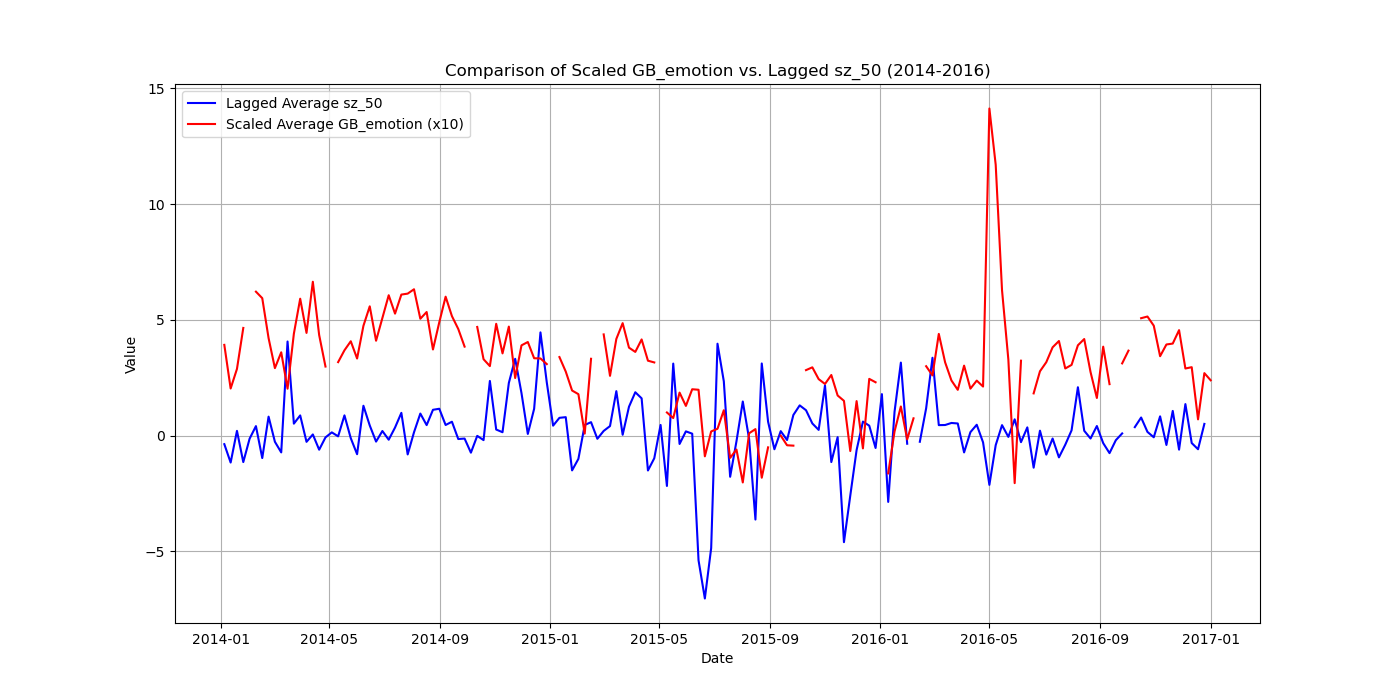
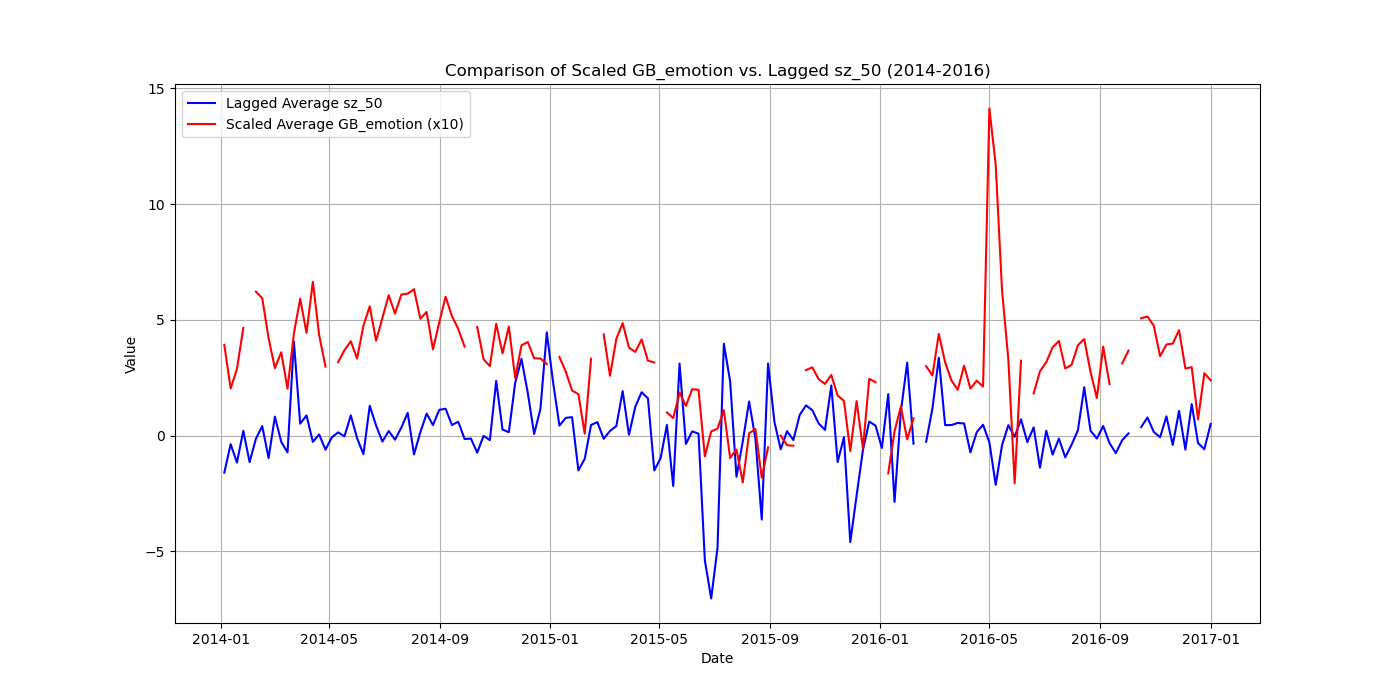
Update Study1 @0506

Changed region(s): [[0.1536, 0.48, 0.86, 0.87]]

diff --git a/Study2可视化.py b/Study2可视化.py
@@ -1,0 +1,77 @@
+import pandas as pd
+import numpy as np
+import matplotlib.pyplot as plt
+from sklearn.model_selection import KFold
+from sklearn.model_selection import train_test_split
+from sklearn.preprocessing import StandardScaler
+from sklearn.impute import KNNImputer
+from sklearn.metrics import mean_squared_error, r2_score, mean_absolute_error
+import tensorflow as tf
+from tensorflow.keras.layers import Input, Dense, LSTM, Dropout, Bidirectional
+import optuna
+
+# Load data
+data_path = 'study1_final_all.csv'
+data = pd.read_csv(data_path)
+data['Date'] = pd.to_datetime(data['Date'])
+data.sort_values('Date', inplace=True)
+
+# Ensure 'Scode' is treated as a string to avoid any numeric interpretation
+data['Scode'] = data['Scode'].astype(str)
+
+# Splitting unique stock codes into training and testing sets
+unique_codes = data['Scode'].unique()
+train_codes, test_codes = train_test_split(unique_codes, test_size=0.4, random_state=42)
+
+# Splitting the dataset based on the train and test codes
+train_data = data[data['Scode'].isin(train_codes)].dropna()
+test_data = data[data['Scode'].isin(test_codes)].dropna()
+
+# Data preprocessing
+imputer = KNNImputer(n_neighbors=5)
+scaler = StandardScaler()
+
+# Feature engineering for train and test sets
+features_train = train_data[['GB_emotion']].copy()
+features_train['GB_emotion'] = imputer.fit_transform(features_train[['GB_emotion']].values.reshape(-1, 1))
+features_scaled_train = scaler.fit_transform(features_train['GB_emotion'].values.reshape(-1, 1))
+features_scaled_train = np.reshape(features_scaled_train, (features_scaled_train.shape[0], 1, 1))
+
+features_test = test_data[['GB_emotion']].copy()
+features_test['GB_emotion'] = imputer.transform(features_test[['GB_emotion']].values.reshape(-1, 1))
+features_scaled_test = scaler.transform(features_test['GB_emotion'].values.reshape(-1, 1))
+features_scaled_test = np.reshape(features_scaled_test, (features_scaled_test.shape[0], 1, 1))
+
+# Target variable handling for train and test sets
+target_train = train_data['Wretnd'].values
+target_test = test_data['Wretnd'].values
+
+# Optuna objective function
+def objective(trial):
+    kf = KFold(n_splits=5, shuffle=True, random_state=42)
+    mse_scores = []
+
+    for train_index, test_index in kf.split(features_scaled_train):
+        X_train, X_test = features_scaled_train[train_index], features_scaled_train[test_index]
+        y_train, y_test = target_train[train_index], target_train[test_index]
+
+        # Model building
+        model = tf.keras.Sequential([
+            Input(shape=(1, 1)),
+            Bidirectional(LSTM(trial.suggest_int('lstm_units', 50, 200), return_sequences=True)),
+            Dropout(trial.suggest_float('dropout_rate', 0.1, 0.5)),
+            tf.keras.layers.SimpleRNN(trial.suggest_int('lstm_units', 50, 200)),
+            Dense(1, activation='relu')
+        ])
+
+        # Compile model, add gradient clipping to prevent exploding gradients
+        lr = trial.suggest_float('learning_rate', 1e-5, 1e-3, log=True)
+        model.compile(optimizer=tf.keras.optimizers.Adam(learning_rate=lr), loss='mse')
+
+        # TensorBoard integration
+        from tensorflow.keras.callbacks import TensorBoard
+        import time
+        unique_mod_name = f"lstm_model_{int(time.time())}"
+        tensorboard = TensorBoard(log_dir=f"logs/{unique_mod_name}")
+
+        model.fit(X_train, y_train, epochs=50, validation_data=(X_test, y_test), callbacks=[tensorboard])

diff --git a/Study2趋势.py b/Study2趋势.py
@@ -13,30 +13,13 @@ data.set_index('Date', inplace=True)
 weekly_data = data.resample('W').mean()
 weekly_data['Analyst_emotion'].fillna(0, inplace=True)
 
-# # 绘制情绪得分和股指回报率的折线图
-# plt.figure(figsize=(14, 8))
-# plt.plot(weekly_data.index, weekly_data['GB_emotion'], label='GB_emotion（普通投资者情绪得分）', color='blue')
-# plt.plot(weekly_data.index, weekly_data['Analyst_emotion'], label='Analyst_emotion（分析师情绪得分）', color='red')
-# plt.plot(weekly_data.index, weekly_data['sz_all'], label='Shanghai Index Return（上证指数回报率）', color='green')
-# plt.plot(weekly_data.index, weekly_data['sz_50'], label='Shanghai 50 Return（上证50回报率）', color='purple')
-#
-# plt.title('2014-2016年每周投资者情绪与上证指数回报率的趋势')
-# plt.xlabel('日期')
-# plt.ylabel('值')
-# plt.legend()
-# plt.grid(True)
-# plt.show()
-
-
-# #延后一周
 # 按周进行重采样，计算平均值
 weekly_avg = data.resample('W').mean()
 
 # 放大GB_emotion的值
 weekly_avg['GB_emotion_scaled'] = weekly_avg['GB_emotion'] * 10
 
-# # 将sz_50延后一周
-# weekly_avg['sz_50_lagged'] = weekly_avg['sz_50'].shift(-1)
+weekly_avg['sz_50_lagged'] = weekly_avg['sz_50']
 
 # 绘制GB_emotion与延后的sz_50
 plt.figure(figsize=(14, 7))

diff --git a/Study3.py b/Study3.py
@@ -20,6 +20,7 @@ correlation_matrix = weekly_data[['SVI_code', 'SVI_All', 'GB_emotion', 'Analyst_
 plt.figure(figsize=(8, 6))
 sns.heatmap(correlation_matrix, annot=True, cmap='coolwarm', fmt=".2f")
 plt.title('Heatmap of Correlation Coefficients between Emotions and Search Volumes')
+plt.savefig('s3.png')
 plt.show()
 
 # Perform Engle-Granger cointegration test
